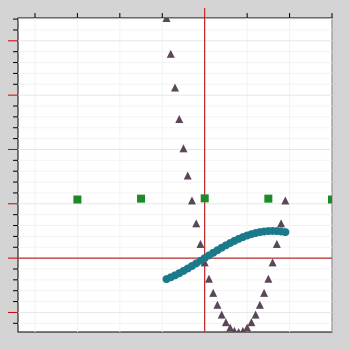
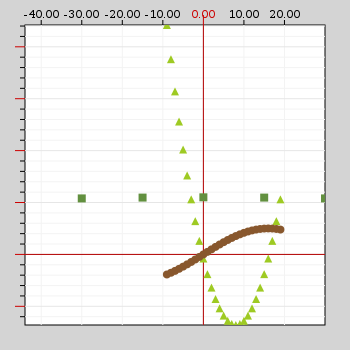
Plot: First hack introducing horizontal numbers for linear spacing.

diff --git a/src/goat-plot-internal.h b/src/goat-plot-internal.h
@@ -24,6 +24,35 @@ typedef enum {
 } GoatBorderPosition;
 
 
+
+static void
+draw_num (GoatPlot *plot, cairo_t *cr, double x, double y,double d)
+{
+	cairo_save (cr);
+
+	gchar *text = g_strdup_printf ("%.2lf", d);
+	g_assert (text);
+	PangoLayout *lay = pango_cairo_create_layout (cr);
+	PangoFontDescription *fontdesc = pango_font_description_new();
+	pango_font_description_set_size (fontdesc, 8  * PANGO_SCALE);
+	pango_layout_set_font_description (lay, fontdesc);
+	pango_layout_set_text (lay, text, -1);
+
+
+	PangoRectangle logrect;
+	pango_layout_get_pixel_extents (lay, NULL, &logrect);
+	g_print ("logrect//// x=%i y=%i w=%i h=%i\n", logrect.x, logrect.y, logrect.width, logrect.height);
+	g_print ("x=%lf   y=%lf\n\n", x, y);
+	cairo_move_to (cr, x - (double)(logrect.width)*0.5, y);
+	cairo_scale (cr, 1., -1.);
+
+	pango_cairo_show_layout (cr, lay);
+	g_object_unref (lay);
+	g_free (text);
+	pango_font_description_free (fontdesc);
+	cairo_restore (cr);
+}
+
 /**
  * @param x_nil in pixel
  * @param x_factor convert unit to pixel
@@ -65,6 +94,8 @@ draw_scale_horizontal (GoatPlot *plot,
 				goat_set_source (cr, &color_minor);
 			}
 			cairo_stroke (cr);
+
+			draw_num (plot, cr, x, top-width_minor-12, step_minor * i);
 		}
 	}
 
@@ -98,6 +129,8 @@ draw_scale_horizontal (GoatPlot *plot,
 				goat_set_source (cr, &color_minor);
 			}
 			cairo_stroke (cr);
+
+			draw_num (plot, cr, x, bottom+width_minor+12, step_minor * i);
 		}
 	}
 	return TRUE;

diff --git a/src/goat-plot.c b/src/goat-plot.c
@@ -224,7 +224,7 @@ gboolean
 goat_plot_get_x_unit_to_pixel (GoatPlot *plot, gdouble *unit_to_pixel)
 {
 	GtkAllocation allocation;
-	const GtkBorder padding = {18, 18, 18, 18}; // left, right, top, bottom
+	const GtkBorder padding = {25, 25, 25, 25}; // left, right, top, bottom
 	GoatPlotPrivate *priv = GOAT_PLOT_GET_PRIVATE (plot);
 	gtk_widget_get_allocation (GTK_WIDGET (plot), &allocation);
 	const gint register width = allocation.width - padding.left - padding.right;
@@ -240,7 +240,7 @@ gboolean
 goat_plot_get_y_unit_to_pixel (GoatPlot *plot, gdouble *unit_to_pixel)
 {
 	GtkAllocation allocation;
-	const GtkBorder padding = {18, 18, 18, 18}; // left, right, top, bottom
+	const GtkBorder padding = {25, 25, 25, 25}; // left, right, top, bottom
 	GoatPlotPrivate *priv = GOAT_PLOT_GET_PRIVATE (plot);
 	gtk_widget_get_allocation (GTK_WIDGET (plot), &allocation);
 	const gint register height = allocation.height - padding.top - padding.bottom;
@@ -409,7 +409,7 @@ draw (GtkWidget *widget, cairo_t *cr)
 	GoatDataset *dataset;
 	GoatPlotPrivate *priv;
 	GtkAllocation allocation; //==gint x,y,width,height
-	GtkBorder padding = {18, 18, 18, 18}; // left, right, top, bottom
+	GtkBorder padding = {25, 25, 25, 25}; // left, right, top, bottom
 	gint i;
 	gdouble x_nil_pixel;
 	gdouble y_nil_pixel;
